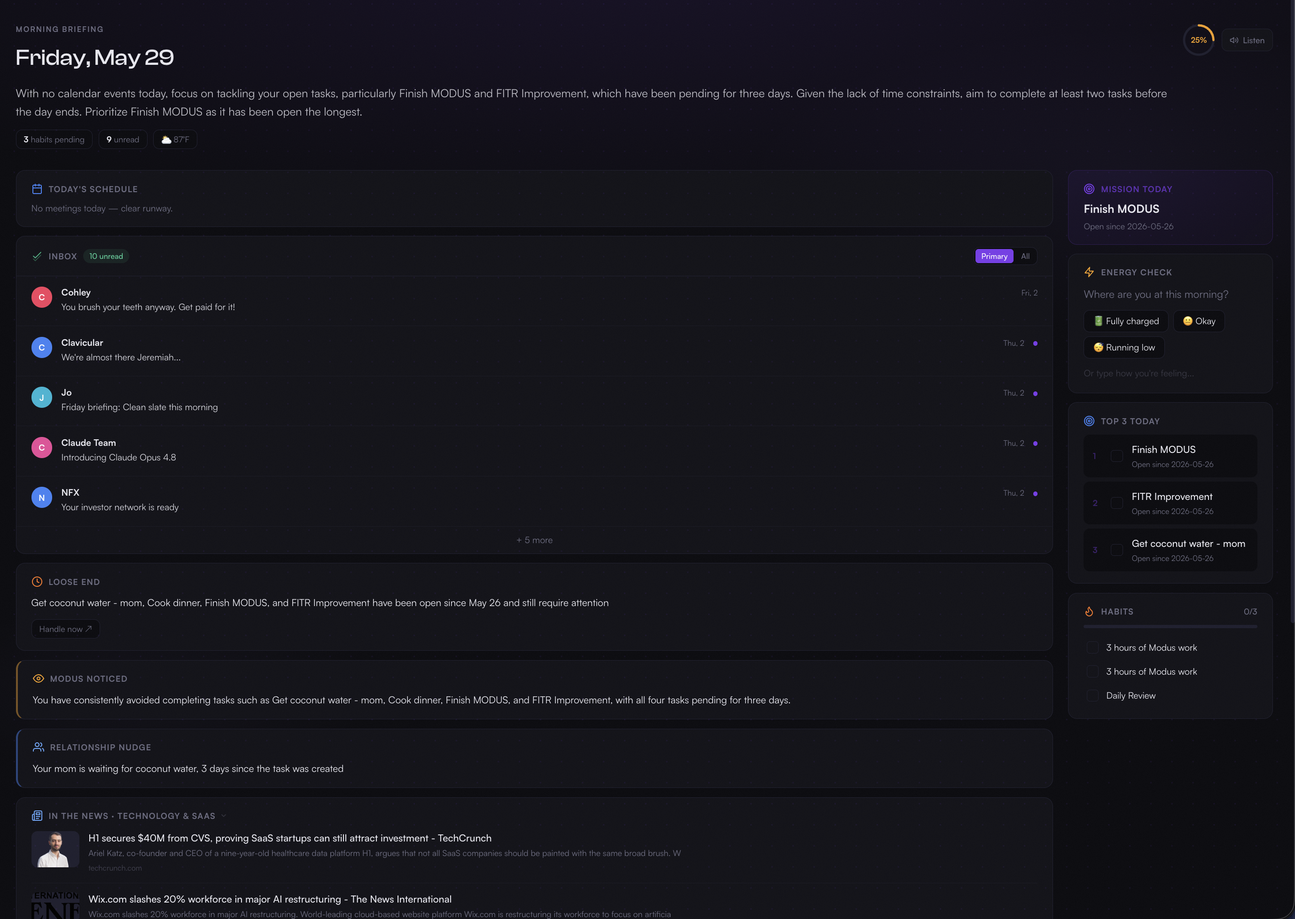
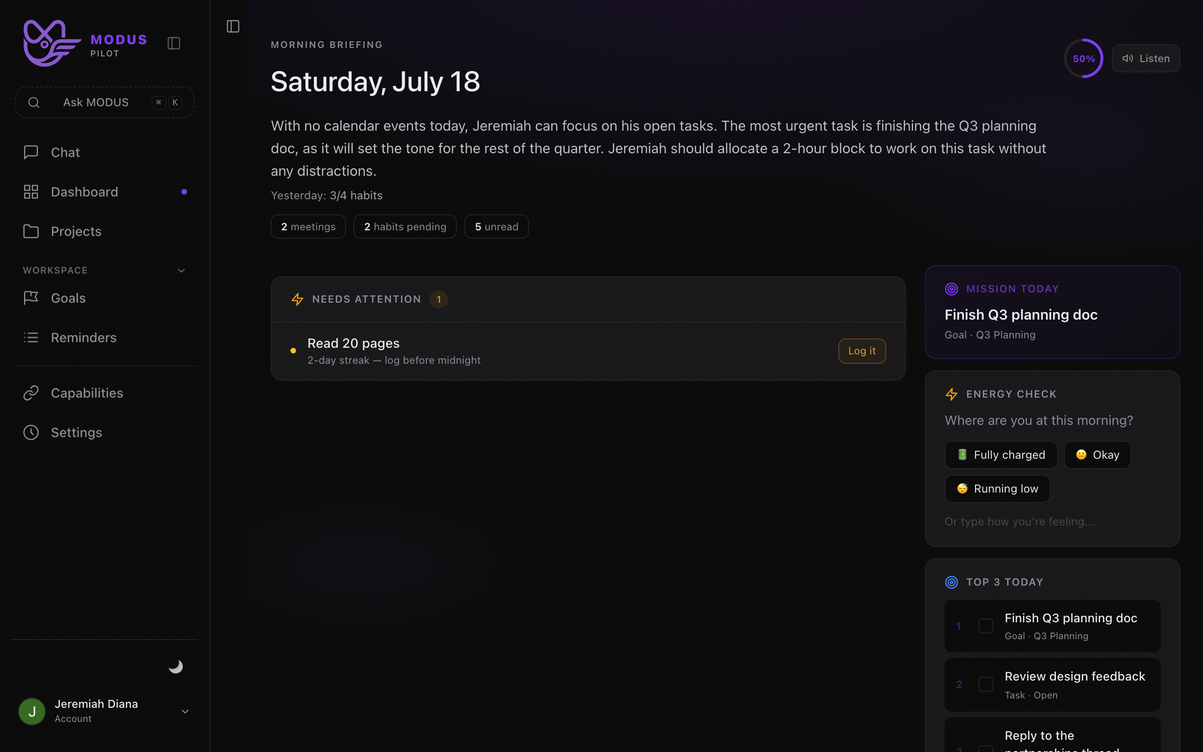
Founding journey: real multimodel screenshots (Scene 1 + Scene 3)
Replace the hand-built ChatMock in the opening scene with a real /chat
capture showing the model picker open (Auto + Multi-model compare +
every frontier model), and refresh the stale personal briefing shot with
a clean, current one. Adds scripts/seed-screenshot-account.ts to
reprovision a pilot screenshot account.

diff --git a/apps/web/scripts/seed-screenshot-account.ts b/apps/web/scripts/seed-screenshot-account.ts
@@ -1,0 +1,133 @@
+/**
+ * Provision a clean, idempotent PILOT account for capturing product
+ * screenshots (model switcher + briefing) — no personal data, deterministic
+ * doc ids so re-runs never duplicate.
+ *
+ * Follows the exact env-loading + firebase-admin pattern as
+ * scripts/briefing-dryrun.ts.
+ *
+ *   cd apps/web && npx tsx scripts/seed-screenshot-account.ts
+ */
+import { readFileSync } from 'fs';
+import { resolve } from 'path';
+
+for (const line of readFileSync(resolve(process.cwd(), '.env.local'), 'utf8').split('\n')) {
+  const m = line.match(/^\s*([A-Z0-9_]+)\s*=\s*(.*)\s*$/);
+  if (!m) continue;
+  let v = m[2];
+  if ((v.startsWith('"') && v.endsWith('"')) || (v.startsWith("'") && v.endsWith("'"))) v = v.slice(1, -1);
+  if (!(m[1] in process.env)) process.env[m[1]] = v;
+}
+
+const EMAIL = 'moduspilotaitester@gmail.com';
+const PASSWORD = 'ScreenshotPilot!2026';
+
+// Deterministic ids → idempotent (re-running never duplicates).
+const TASKS = [
+  { id: 'shot-task-1', title: 'Finish Q3 planning doc' },
+  { id: 'shot-task-2', title: 'Review design feedback' },
+  { id: 'shot-task-3', title: 'Reply to the partnerships thread' },
+  { id: 'shot-task-4', title: 'Book dentist appointment' },
+];
+
+// completedDates uses local YYYY-MM-DD strings, same as the real read/write
+// path (lib/dates localDateStr / reminders page).
+function daysAgoStr(n: number): string {
+  const d = new Date();
+  d.setDate(d.getDate() - n);
+  return d.toISOString().slice(0, 10);
+}
+
+const HABITS = [
+  {
+    id: 'shot-habit-1',
+    title: 'Deep work — 2 hours',
+    streak: 6,
+    // done today + the 5 days before → streak of 6, shows as "done" today.
+    completedDates: [5, 4, 3, 2, 1, 0].map(daysAgoStr),
+  },
+  {
+    id: 'shot-habit-2',
+    title: 'Morning workout',
+    streak: 4,
+    completedDates: [3, 2, 1, 0].map(daysAgoStr),
+  },
+  {
+    id: 'shot-habit-3',
+    title: 'Read 20 pages',
+    streak: 2,
+    // NOT done today → renders "at risk" / unchecked, so the habits card
+    // shows a realistic partial (2/3) progress state instead of all-done.
+    completedDates: [2, 1].map(daysAgoStr),
+  },
+];
+
+async function main() {
+  const { adminDb, adminAuth } = await import('@/lib/firebase-admin');
+  // firebase-admin.ts doesn't wrap updateUser — pull it straight off the
+  // already-initialized default app (adminAuth.getUserByEmail below ensures
+  // the app exists before we grab it here).
+  const { getAuth } = await import('firebase-admin/auth');
+  const { getApp } = await import('firebase-admin/app');
+  const { FieldValue } = await import('firebase-admin/firestore');
+
+  const user = await adminAuth.getUserByEmail(EMAIL);
+  const uid = user.uid;
+  console.log(`Found existing account: ${EMAIL} → uid=${uid}`);
+
+  await getAuth(getApp()).updateUser(uid, { password: PASSWORD, emailVerified: true });
+  console.log(`Password set + emailVerified=true.`);
+
+  await adminDb.collection('users').doc(uid).set(
+    { plan: 'pilot', onboardingComplete: true },
+    { merge: true },
+  );
+  console.log(`users/${uid} → plan='pilot', onboardingComplete=true (merged).`);
+
+  // Report what's already in there (never deleted — additive only) so we
+  // know if pre-existing data will show up alongside the seeded content.
+  const [existingTasks, existingHabits] = await Promise.all([
+    adminDb.collection('users').doc(uid).collection('tasks').get(),
+    adminDb.collection('users').doc(uid).collection('habits').get(),
+  ]);
+  console.log(`Pre-existing: ${existingTasks.size} task doc(s), ${existingHabits.size} habit doc(s).`);
+
+  const tasksCol = adminDb.collection('users').doc(uid).collection('tasks');
+  for (const t of TASKS) {
+    const ref = tasksCol.doc(t.id);
+    const snap = await ref.get();
+    if (snap.exists) { console.log(`  task ${t.id} already exists — skipped.`); continue; }
+    await ref.set({
+      title: t.title,
+      done: false,
+      deleted: false,
+      source: 'manual',
+      createdAt: FieldValue.serverTimestamp(),
+    });
+    console.log(`  created task ${t.id}: "${t.title}"`);
+  }
+
+  const habitsCol = adminDb.collection('users').doc(uid).collection('habits');
+  for (const h of HABITS) {
+    const ref = habitsCol.doc(h.id);
+    const snap = await ref.get();
+    if (snap.exists) { console.log(`  habit ${h.id} already exists — skipped.`); continue; }
+    await ref.set({
+      title: h.title,
+      streak: h.streak,
+      completedDates: h.completedDates,
+      frequency: 'daily',
+      source: 'manual',
+      createdAt: FieldValue.serverTimestamp(),
+    });
+    console.log(`  created habit ${h.id}: "${h.title}" (streak ${h.streak})`);
+  }
+
+  console.log(`\nDone. Screenshot account ready:`);
+  console.log(`  email:    ${EMAIL}`);
+  console.log(`  password: ${PASSWORD}`);
+  console.log(`  uid:      ${uid}`);
+  console.log(`  plan:     pilot (all frontier models unlocked)`);
+}
+
+main().then(() => process.exit(0)).catch(e => { console.error('FATAL:', e); process.exit(1); });

diff --git a/apps/web/app/grandfathering/scenes.tsx b/apps/web/app/grandfathering/scenes.tsx
@@ -4,7 +4,6 @@ import Image from 'next/image';
 import type { User } from 'firebase/auth';
 import FoundingCard from './FoundingCard';
 import FoundingAuth from './FoundingAuth';
-import ChatMock from './ChatMock';
 import {
   FRONTIER_MODELS, PRICE_TEARDOWN, TEARDOWN_TOTAL, FOUNDING_PRICE,
   JOURNEY_PERKS, DAY_STEPS,
@@ -54,7 +53,7 @@ export function SceneOpening({}: SceneProps) {
         MODUS is the AI operating system that runs your day — every frontier model in one place, plus an assistant that actually acts, not just answers.
       </p>
       <div {...rise(0.7)} className="fm-rise mt-10 w-full">
-        <ChatMock />
+        <DeviceShot src="/screenshot-models.png" alt="MODUS — every frontier model in one chat" />
       </div>
     </div>
   );
